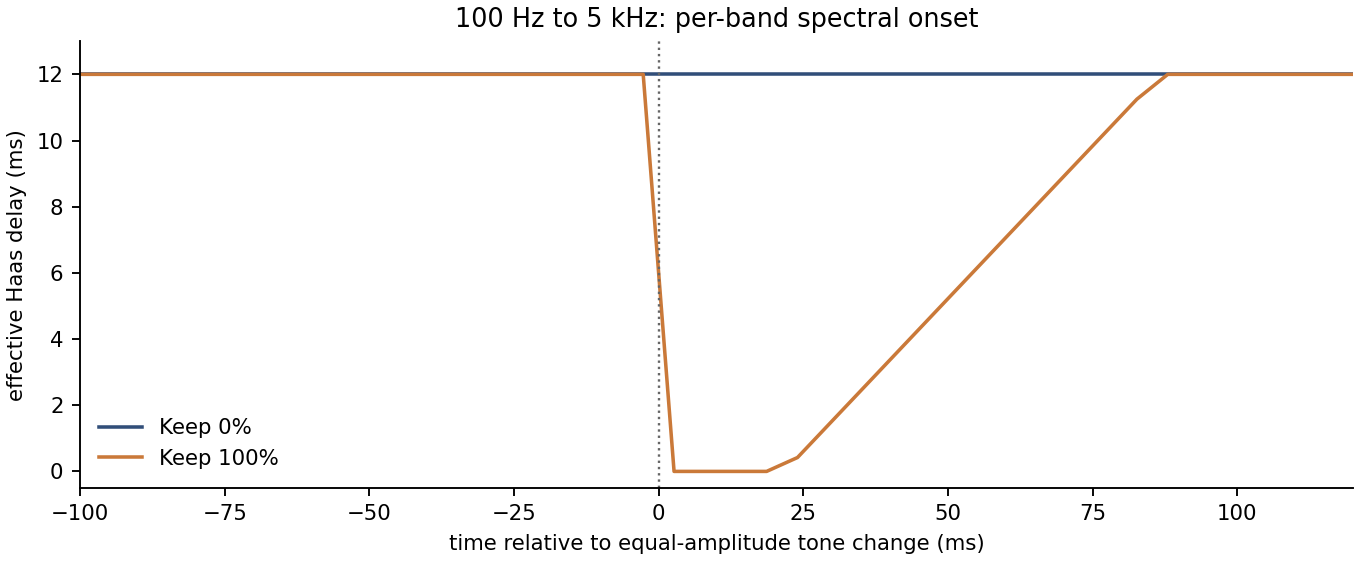
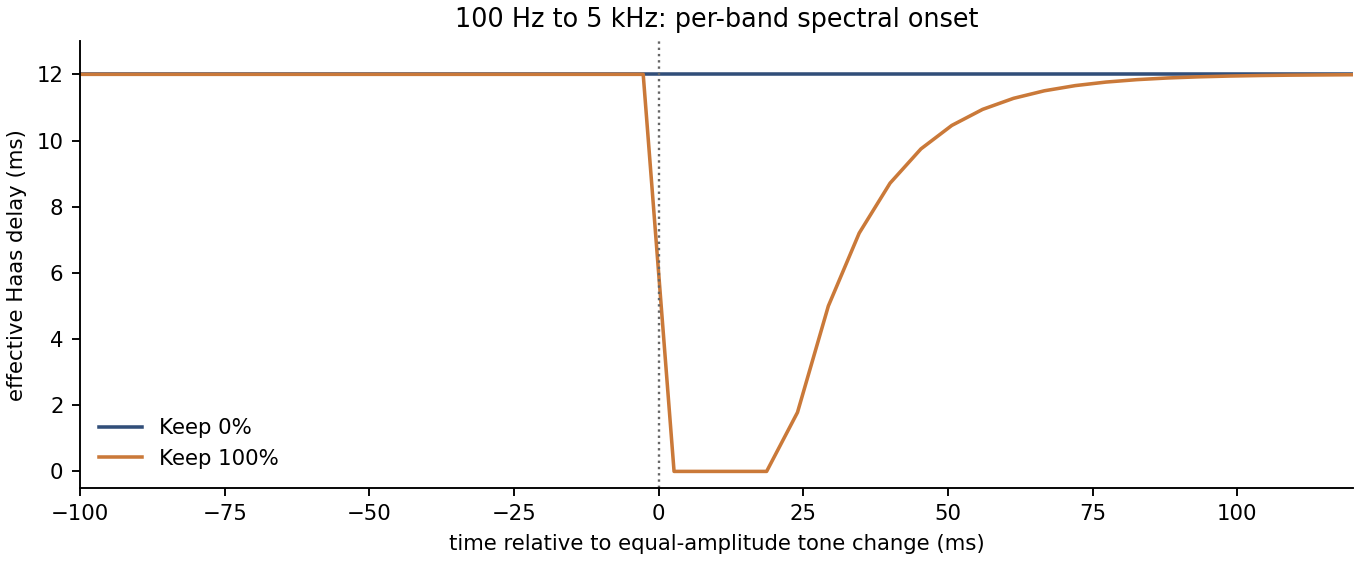
Use exponential release for Haas transient protection

diff --git a/projects/KuoStereo/Measurements/generate_report.py b/projects/KuoStereo/Measurements/generate_report.py
@@ -119,6 +119,8 @@ def main(raw_dir, report_dir):
     delay_time = np.array([float(row["time_ms"]) for row in delay])
     normal_delay = np.array([float(row["normal_ms"]) for row in delay])
     kept_delay = np.array([float(row["kept_ms"]) for row in delay])
+    release_end_index = int(np.argmin(np.abs(delay_time - 75.0)))
+    remaining_protection = 100 * (normal_delay[release_end_index] - kept_delay[release_end_index]) / normal_delay[release_end_index]
     fig, axes = plt.subplots(3, 1, figsize=(10, 8), layout="constrained")
     axes[0].plot(transient_time, columns["input"], color="0.4", lw=0.9, label="input noise + transient")
     axes[0].plot(transient_time, columns["right_normal"], color="#314e79", lw=1, label="right, Keep 0%")
@@ -278,9 +280,10 @@ def main(raw_dir, report_dir):
         "and above 8 kHz. It triggers on a sharp rise in any one band rather than",
         "on the total mid-channel level. As an equal-amplitude check, a 100 Hz",
         "tone switches to 5 kHz after 1 s; both tones are 0.18 peak amplitude.",
-        "Haas Keep holds for 10 ms after the last detected onset, then crossfades",
-        "back over 65 ms. Velvet Guard attenuates convolution input only while",
-        "the detector reports an onset, with no fixed suppression interval.",
+        "Haas Keep holds for 10 ms after the last detected onset, then decays",
+        "exponentially to 1% protection over 65 ms. Velvet Guard attenuates",
+        "convolution input only while the detector reports an onset, with no",
+        "fixed suppression interval.",
         "Guard Attack sets a 0–10 ms linear ramp into attenuation while the",
         "detector remains active. At 0 ms the guard acts immediately; longer",
         "settings let more of a brief attack into Velvet's convolution history.",
@@ -311,8 +314,10 @@ def main(raw_dir, report_dir):
         f'| 0.5 ms | {guard_half_ms:.5f} | {100 * (1 - guard_half_ms / no_guard):.1f}% |',
         f'| 5 ms | {guard_five_ms:.5f} | {100 * (1 - guard_five_ms / no_guard):.1f}% |',
         "",
-        "- The protected Haas path reaches 0 ms during the onset and returns after",
-        "  its 10 ms hold and 65 ms tap crossfade; normal Haas stays at 12 ms.",
+        "- The protected Haas path reaches 0 ms during the onset and returns",
+        "  exponentially after its 10 ms hold; normal Haas stays at 12 ms.",
+        f'- At {delay_time[release_end_index]:.1f} ms after the transient, the active delay is '
+        f'{kept_delay[release_end_index]:.2f} ms, leaving {remaining_protection:.1f}% protection.',
         "",
         "## Velvet Width: widening a mono signal",
         "",

diff --git a/projects/KuoStereo/Tests/ProcessorTests.cpp b/projects/KuoStereo/Tests/ProcessorTests.cpp
@@ -98,7 +98,8 @@ float noiseBedSideEnergy (float guard)
 
 struct HaasTransientResult
 {
-    float activeDelayMs = 0, heldDelayMs = 0, releasingDelayMs = 0, recoveredDelayMs = 0;
+    float activeDelayMs = 0, heldDelayMs = 0, releasingDelayMs = 0;
+    float laterReleaseDelayMs = 0, recoveredDelayMs = 0;
     int rightPeakOffset = -1;
 };
 
@@ -128,6 +129,8 @@ HaasTransientResult haasTransientResponse (float keep)
             result.heldDelayMs = processor.getCurrentDelayMs();
         if (block == 8)
             result.releasingDelayMs = processor.getCurrentDelayMs();
+        if (block == 12)
+            result.laterReleaseDelayMs = processor.getCurrentDelayMs();
         for (int i = 0; i < buffer.getNumSamples(); ++i)
             if (block >= 4 && buffer.getSample (1, i) > 0.9f && result.rightPeakOffset < 0)
                 result.rightPeakOffset = (block - 4) * 256 + i;
@@ -342,9 +345,15 @@ int main (int argc, char** argv)
                "half Keep Transient halves the delay during an onset");
         check (fullKeep.activeDelayMs < 0.001f && fullKeep.rightPeakOffset == 0,
                "maximum Keep Transient makes the onset's right channel undelayed");
-        check (fullKeep.heldDelayMs < 0.01f && fullKeep.releasingDelayMs > 1.0f
-                   && fullKeep.releasingDelayMs < 4.0f,
-               "Haas protection holds for 10 ms after onset detection then releases over 65 ms");
+        constexpr float releaseIntervalSeconds = 4.0f * 256.0f / 48000.0f;
+        const auto expectedRemainingRatio = std::exp (std::log (0.01f)
+            * releaseIntervalSeconds / 0.065f);
+        const auto actualRemainingRatio = (12.0f - fullKeep.laterReleaseDelayMs)
+            / (12.0f - fullKeep.releasingDelayMs);
+        check (fullKeep.heldDelayMs < 0.01f && fullKeep.releasingDelayMs > 0.0f
+                   && fullKeep.laterReleaseDelayMs > fullKeep.releasingDelayMs
+                   && std::abs (actualRemainingRatio - expectedRemainingRatio) < 0.01f,
+               "Haas protection holds for 10 ms then decays exponentially to 1% over 65 ms");
         check (std::abs (fullKeep.recoveredDelayMs - 12.0f) < 0.01f,
                "the Haas delay returns after its transient hold and release");
 

diff --git a/projects/KuoStereo/Source/PluginProcessor.cpp b/projects/KuoStereo/Source/PluginProcessor.cpp
@@ -259,7 +259,8 @@ void KuoStereoProcessor::processBlock (juce::AudioBuffer<float>& buffer, juce::M
     const auto maxRate = parameters.getRawParameterValue ("haasRate")->load();
     const auto maxDelayStep = maxRate * 0.001f; // Samples per sample equals ms per second.
     const auto keepTransient = parameters.getRawParameterValue ("haasKeepTransient")->load() * 0.01f;
-    const auto transientReleaseStep = 1.0f / (0.065f * sampleRate);
+    // After 65 ms of release, transient protection has fallen to 1% (-40 dB).
+    const auto transientReleaseCoefficient = std::exp (std::log (0.01f) / (0.065f * sampleRate));
     const auto widthTarget = parameters.getRawParameterValue ("width")->load() * 0.01f;
     const auto protection = parameters.getRawParameterValue ("transientProtect")->load() * 0.01f;
     const auto guardAttackMs = parameters.getRawParameterValue ("guardAttack")->load();
@@ -315,7 +316,7 @@ void KuoStereoProcessor::processBlock (juce::AudioBuffer<float>& buffer, juce::M
         if (transientHold > 0)
             haasTransientEnvelope = 1.0f;
         else
-            haasTransientEnvelope = std::max (0.0f, haasTransientEnvelope - transientReleaseStep);
+            haasTransientEnvelope *= transientReleaseCoefficient;
         smoothDelaySamples += std::clamp (targetDelaySamples - smoothDelaySamples,
                                          -maxDelayStep, maxDelayStep);
         widthBlend += (widthTarget - widthBlend) * 0.001f;

diff --git a/projects/KuoStereo/Measurements/Report/REPORT.md b/projects/KuoStereo/Measurements/Report/REPORT.md
@@ -44,9 +44,10 @@ mid-channel frequency bands: below 250 Hz, 250 Hz–2.5 kHz, 2.5–8 kHz,
 and above 8 kHz. It triggers on a sharp rise in any one band rather than
 on the total mid-channel level. As an equal-amplitude check, a 100 Hz
 tone switches to 5 kHz after 1 s; both tones are 0.18 peak amplitude.
-Haas Keep holds for 10 ms after the last detected onset, then crossfades
-back over 65 ms. Velvet Guard attenuates convolution input only while
-the detector reports an onset, with no fixed suppression interval.
+Haas Keep holds for 10 ms after the last detected onset, then decays
+exponentially to 1% protection over 65 ms. Velvet Guard attenuates
+convolution input only while the detector reports an onset, with no
+fixed suppression interval.
 Guard Attack sets a 0–10 ms linear ramp into attenuation while the
 detector remains active. At 0 ms the guard acts immediately; longer
 settings let more of a brief attack into Velvet's convolution history.
@@ -75,8 +76,9 @@ Separately, Velvet Width is 100% and Transient Guard is compared at 0% and
 | 0.5 ms | 0.02992 | 11.0% |
 | 5 ms | 0.03308 | 1.6% |
 
-- The protected Haas path reaches 0 ms during the onset and returns after
-  its 10 ms hold and 65 ms tap crossfade; normal Haas stays at 12 ms.
+- The protected Haas path reaches 0 ms during the onset and returns
+  exponentially after its 10 ms hold; normal Haas stays at 12 ms.
+- At 76.0 ms after the transient, the active delay is 11.86 ms, leaving 1.1% protection.
 
 ## Velvet Width: widening a mono signal
 

diff --git a/projects/KuoStereo/README.md b/projects/KuoStereo/README.md
@@ -19,9 +19,10 @@ transient protection, Velvet widening, and the frequency display.
   Delay. Keep Transient uses the same onset detector as Velvet Width to
   temporarily shorten the effective Haas delay. At 0% it has no effect; at
   100% the delay reaches 0 ms during detected transients. After a
-  10 ms hold, a 65 ms tap crossfade restores the normal delay without a rapid
-  delay-time sweep. The shared onset detector compares fast and slow magnitudes in
-  four frequency bands rather than the overall mid-channel level.
+  10 ms hold, an exponential tap crossfade decays to 1% protection over 65 ms,
+  restoring the normal delay without a rapid delay-time sweep. The shared onset
+  detector compares fast and slow magnitudes in four frequency bands rather
+  than the overall mid-channel level.
 - **Velvet Width** adds a sparse, balanced-polarity convolution of the dry mid
   channel to the side channel. Transient Guard uses the shared mid-channel
   onset detector to attenuate only detected onset samples before convolution;
